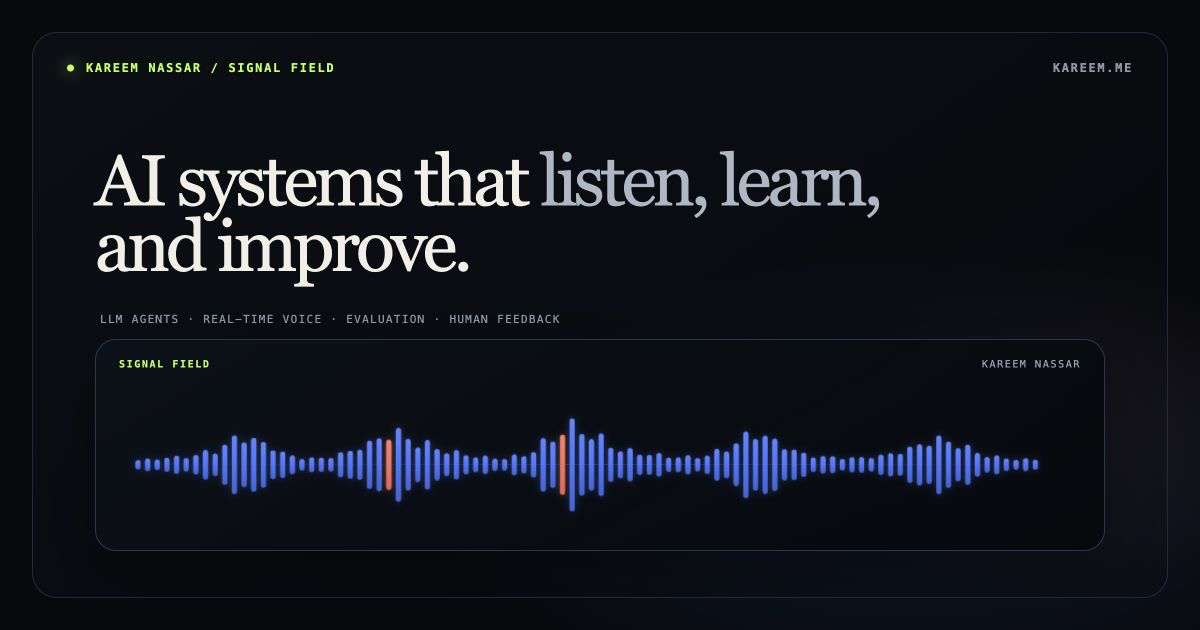
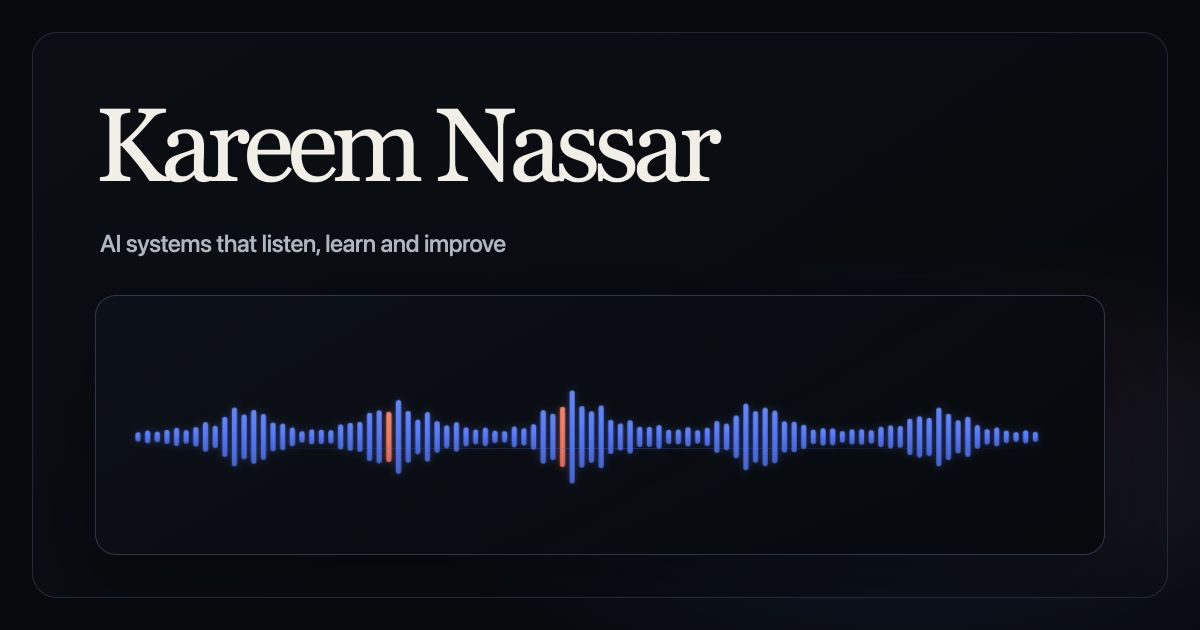
Simplify Signal Field social card

diff --git a/og-preview.html b/og-preview.html
@@ -10,29 +10,23 @@
     body{position:relative;color:#f2efe8;font-family:Inter,-apple-system,BlinkMacSystemFont,"Segoe UI",sans-serif}
     body::before{content:"";position:absolute;inset:0;background:radial-gradient(680px 330px at 76% 78%,rgba(76,120,255,.12),transparent 72%),radial-gradient(360px 260px at 89% 68%,rgba(255,114,94,.065),transparent 72%)}
     .frame{position:absolute;inset:32px;border:1px solid #222a36;border-radius:25px;overflow:hidden;background:linear-gradient(145deg,rgba(14,19,27,.52),rgba(7,9,13,.15))}
-    .top{display:flex;align-items:center;justify-content:space-between;padding:29px 34px;color:#8f98a8;font:600 12px/1 ui-monospace,SFMono-Regular,Menlo,monospace;letter-spacing:.14em;text-transform:uppercase}
-    .identity{display:flex;align-items:center;gap:12px;color:#b7ff52}.dot{width:7px;height:7px;border-radius:50%;background:#b7ff52;box-shadow:0 0 16px rgba(183,255,82,.9)}
-    h1{position:relative;margin:45px 0 0 62px;width:940px;font:400 72px/.91 Georgia,"Times New Roman",serif;letter-spacing:-.055em}
-    h1 span{color:#aeb7c5}
-    .tags{position:absolute;top:281px;left:67px;color:#929cab;font:500 11px/1 ui-monospace,SFMono-Regular,Menlo,monospace;letter-spacing:.12em;text-transform:uppercase}
-    .signal{position:absolute;left:62px;right:62px;bottom:46px;height:212px;border:1px solid #2d3747;border-radius:21px;overflow:hidden;background:linear-gradient(150deg,rgba(12,17,25,.96),rgba(5,8,12,.94));box-shadow:0 28px 80px rgba(0,0,0,.34)}
+    h1{position:relative;margin:64px 0 0 62px;width:940px;font:400 104px/.92 Georgia,"Times New Roman",serif;letter-spacing:-.06em}
+    .tagline{position:absolute;top:196px;left:67px;color:#aeb7c5;font:500 24px/1.2 Inter,-apple-system,BlinkMacSystemFont,"Segoe UI",sans-serif;letter-spacing:-.018em}
+    .signal{position:absolute;left:62px;right:62px;bottom:42px;height:260px;border:1px solid #2d3747;border-radius:21px;overflow:hidden;background:linear-gradient(150deg,rgba(12,17,25,.96),rgba(5,8,12,.94));box-shadow:0 28px 80px rgba(0,0,0,.34)}
     .signal::after{content:"";position:absolute;left:6%;right:6%;top:59%;height:1px;background:linear-gradient(90deg,transparent,rgba(76,120,255,.25),transparent)}
-    .signal-head{position:absolute;z-index:2;top:19px;left:23px;right:23px;display:flex;justify-content:space-between;color:#b7ff52;font:600 10px/1 ui-monospace,SFMono-Regular,Menlo,monospace;letter-spacing:.16em;text-transform:uppercase}.signal-head b{color:#9ca5b5;font-weight:500}
     canvas{position:absolute;inset:0;width:100%;height:100%}
   </style>
 </head>
 <body>
   <main class="frame">
-    <div class="top"><div class="identity"><i class="dot"></i>Kareem Nassar / Signal Field</div><div>kareem.me</div></div>
-    <h1>AI systems that <span>listen, learn,</span><br>and improve.</h1>
-    <div class="tags">LLM agents · real-time voice · evaluation · human feedback</div>
+    <h1>Kareem Nassar</h1>
+    <div class="tagline">AI systems that listen, learn and improve</div>
     <section class="signal" aria-label="Generative signal field">
-      <div class="signal-head"><span>Signal field</span><b>Kareem Nassar</b></div>
-      <canvas id="wave" width="1076" height="212"></canvas>
+      <canvas id="wave" width="1076" height="260"></canvas>
     </section>
   </main>
   <script>
-    const c=document.querySelector('#wave'),x=c.getContext('2d'),w=c.width,h=c.height,mid=126,bars=94;
+    const c=document.querySelector('#wave'),x=c.getContext('2d'),w=c.width,h=c.height,mid=142,bars=94;
     x.clearRect(0,0,w,h);
     const peaks=[.12,.16,.22,.42,.72,.48,.23,.18,.28,.50,.88,.62,.34,.22,.18,.26,.58,.94,.72,.38,.25,.19,.24,.46,.76,.55,.30,.20,.16,.23,.44,.66,.48,.26,.18,.13];
     const sample=t=>{const p=t*(peaks.length-1),i=Math.floor(p),f=p-i,a=peaks[i],b=peaks[Math.min(i+1,peaks.length-1)];return a+(b-a)*(f*f*(3-2*f))};

diff --git a/index.html b/index.html
@@ -8,19 +8,19 @@
   <meta property="og:type" content="website">
   <meta property="og:url" content="https://kareem.me/">
   <meta property="og:site_name" content="Kareem Nassar">
-  <meta property="og:title" content="Kareem Nassar — AI systems that listen, learn, and improve">
-  <meta property="og:description" content="LLM agents · real-time voice · evaluation · human feedback">
+  <meta property="og:title" content="Kareem Nassar">
+  <meta property="og:description" content="AI systems that listen, learn and improve">
   <meta property="og:image" content="https://kareem.me/images/og-signal-field.png">
   <meta property="og:image:secure_url" content="https://kareem.me/images/og-signal-field.png">
   <meta property="og:image:type" content="image/png">
   <meta property="og:image:width" content="1200">
   <meta property="og:image:height" content="630">
-  <meta property="og:image:alt" content="Kareem Nassar — AI systems that listen, learn, and improve, illustrated with a generative signal field.">
+  <meta property="og:image:alt" content="Kareem Nassar. AI systems that listen, learn and improve, illustrated with a generative signal field.">
   <meta name="twitter:card" content="summary_large_image">
-  <meta name="twitter:title" content="Kareem Nassar — AI systems that listen, learn, and improve">
-  <meta name="twitter:description" content="LLM agents · real-time voice · evaluation · human feedback">
+  <meta name="twitter:title" content="Kareem Nassar">
+  <meta name="twitter:description" content="AI systems that listen, learn and improve">
   <meta name="twitter:image" content="https://kareem.me/images/og-signal-field.png">
-  <meta name="twitter:image:alt" content="Kareem Nassar — AI systems that listen, learn, and improve, illustrated with a generative signal field.">
+  <meta name="twitter:image:alt" content="Kareem Nassar. AI systems that listen, learn and improve, illustrated with a generative signal field.">
   <style>
     :root{--bg:#07090d;--fg:#f2efe8;--muted:#8f96a3;--blue:#4c78ff;--lime:#b7ff52;--coral:#ff725e;--line:#202632}
     *{box-sizing:border-box}html{background:var(--bg);scroll-behavior:smooth}body{margin:0;color:var(--fg);background:var(--bg);font-family:Inter,ui-sans-serif,system-ui,-apple-system,sans-serif}
